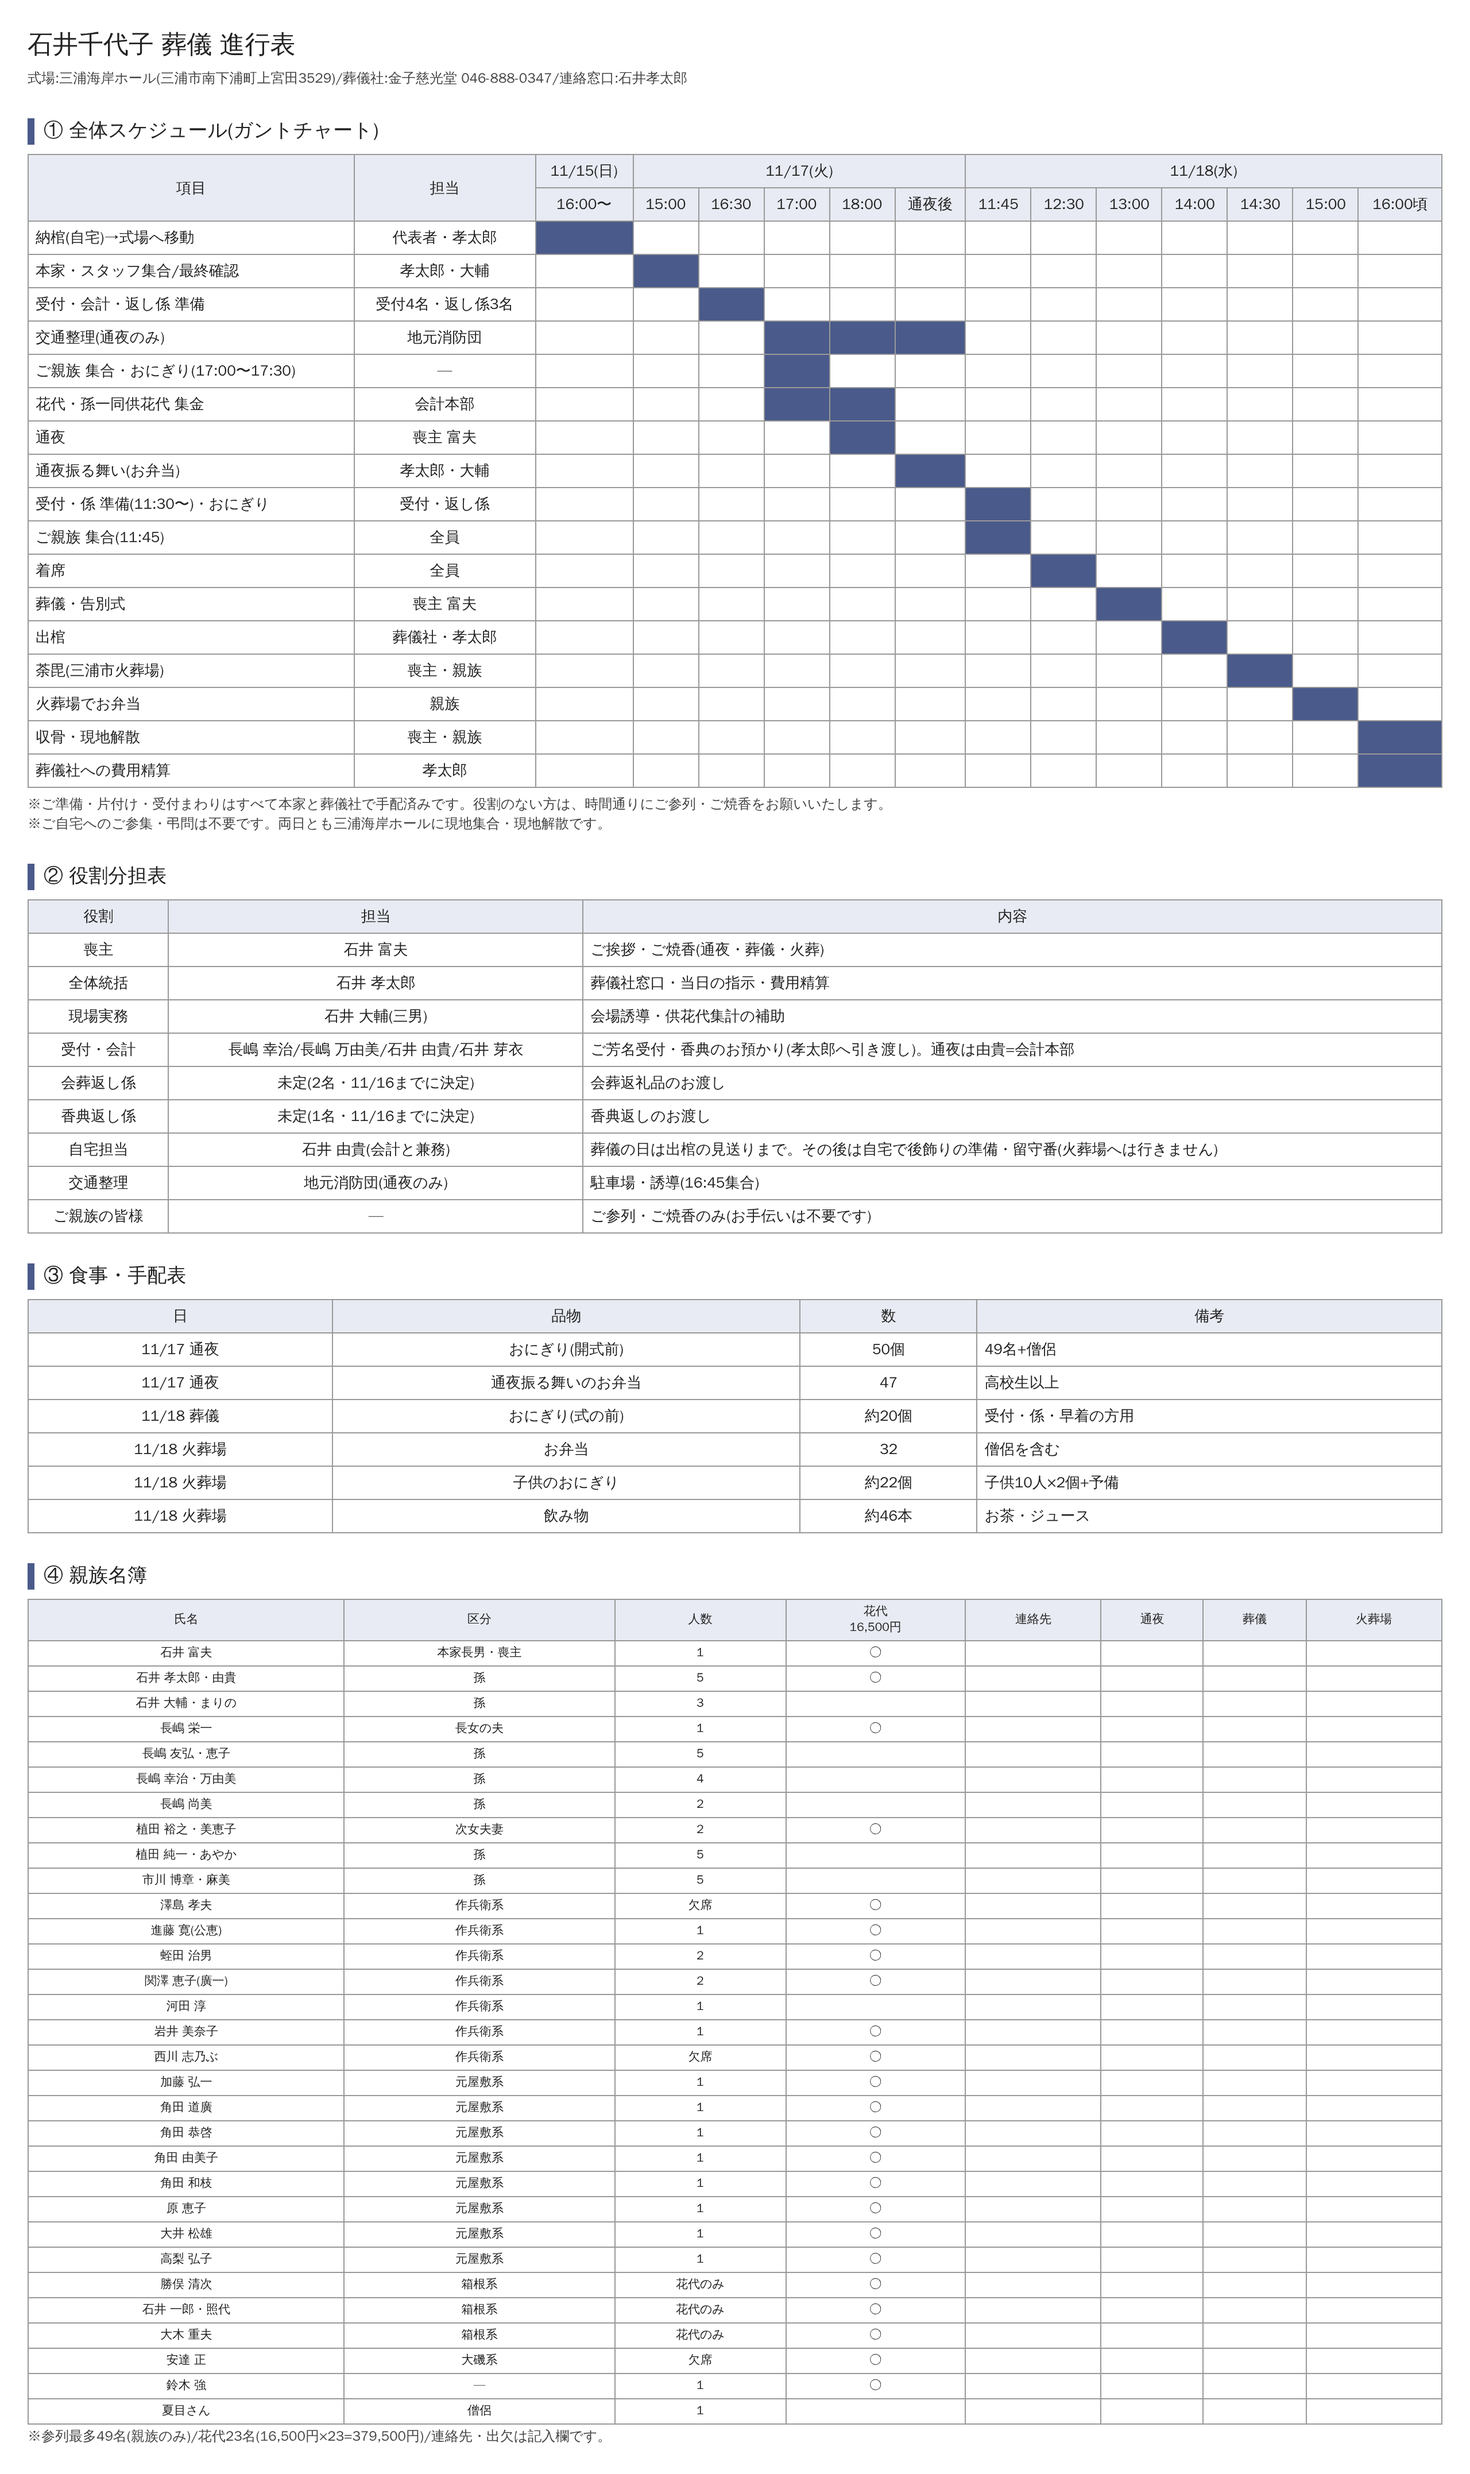
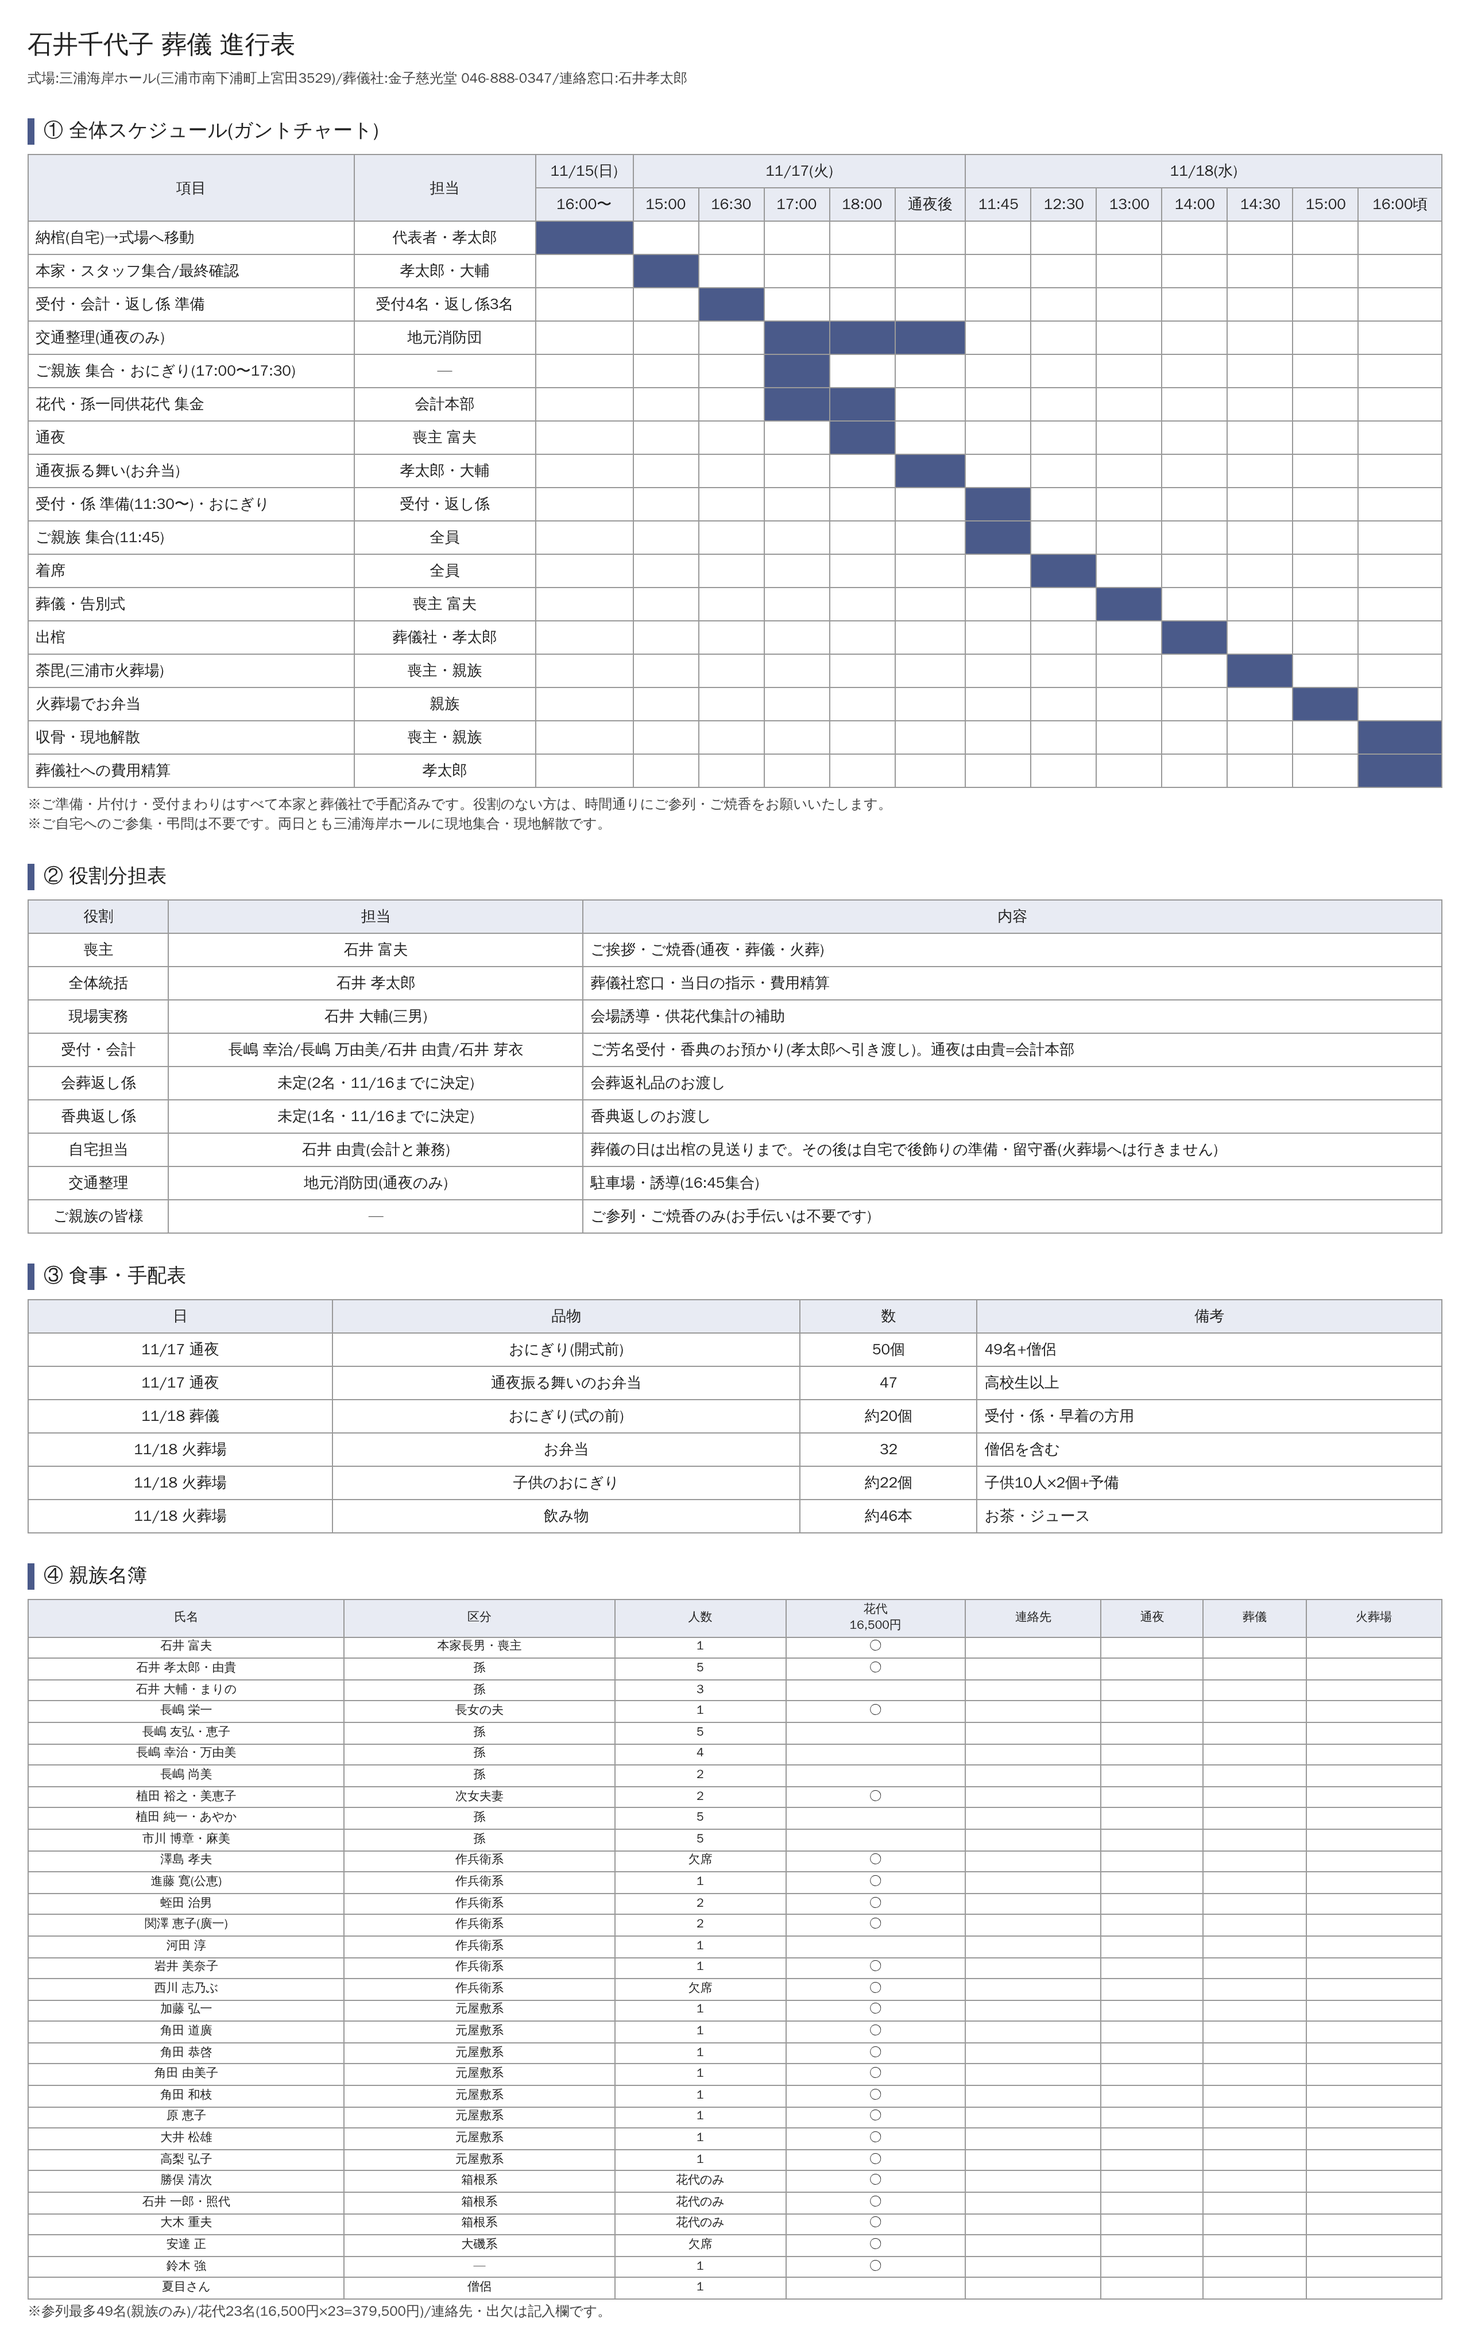
名簿の行間を調整し3ページに収める
Claude-Session: https://claude.ai/code/session_017EN71ntz6Y61c3RwKNapL6

Changed region(s): [[0.0, 0.0, 1.0, 0.9936], [0.8125, 0.5279, 0.8438, 0.59]]

diff --git a/葬儀資料/葬儀進行表.html b/葬儀資料/葬儀進行表.html
@@ -3,7 +3,7 @@ body{font-family:"WenQuanYi Zen Hei",sans-serif;margin:24px;color:#222}
 h1{font-size:22px;margin:0}h2{font-size:17px;border-left:6px solid #4a5a8a;padding-left:8px;margin:26px 0 8px}
 table{border-collapse:collapse;width:100%;font-size:13px}th,td{border:1px solid #999;padding:5px 6px;text-align:center}
 th{background:#e8ebf3}td.l{text-align:left}.b{background:#4a5a8a}.note{font-size:12px;color:#444;margin-top:6px}
-.pb{page-break-before:always}table.r{font-size:10.5px}table.r th,table.r td{padding:3.5px 5px}table.r+.note{margin-top:2px}thead{display:table-header-group}tr{page-break-inside:avoid}@page{size:A4 landscape;margin:10mm}@media print{body{margin:0}}
+.pb{page-break-before:always}table.r{font-size:10.5px}table.r th,table.r td{padding:1.8px 5px}table.r+.note{margin-top:2px}thead{display:table-header-group}tr{page-break-inside:avoid}@page{size:A4 landscape;margin:10mm}@media print{body{margin:0}}
 </style></head><body>
 <h1>石井千代子 葬儀 進行表</h1>
 <div class="note">式場:三浦海岸ホール(三浦市南下浦町上宮田3529)/葬儀社:金子慈光堂 046-888-0347/連絡窓口:石井孝太郎</div>
